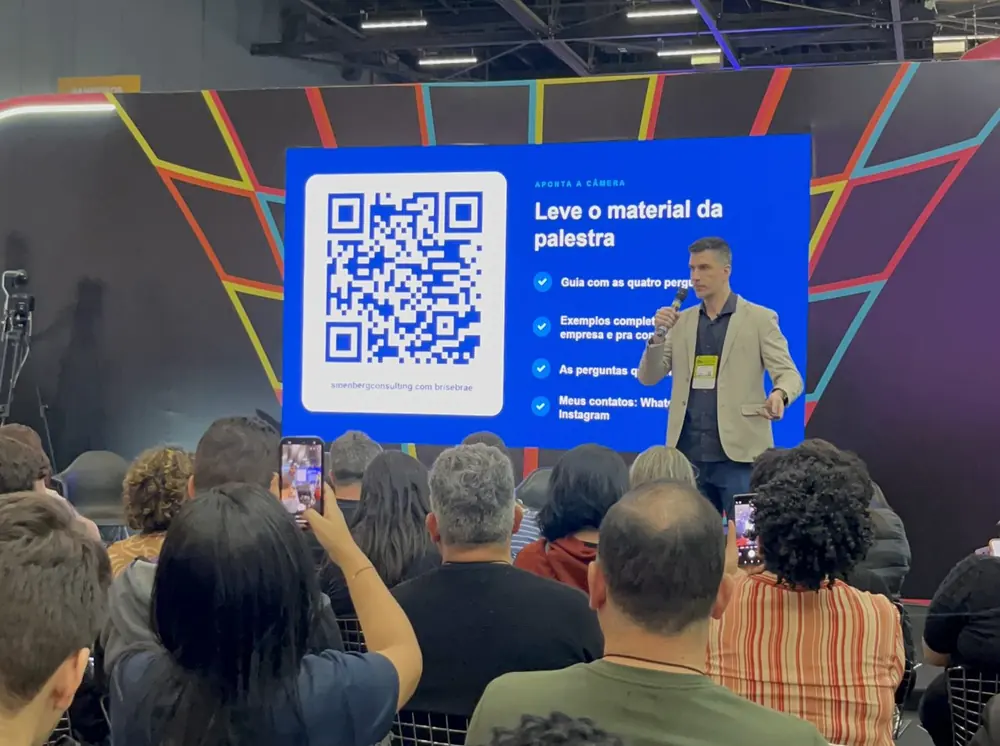
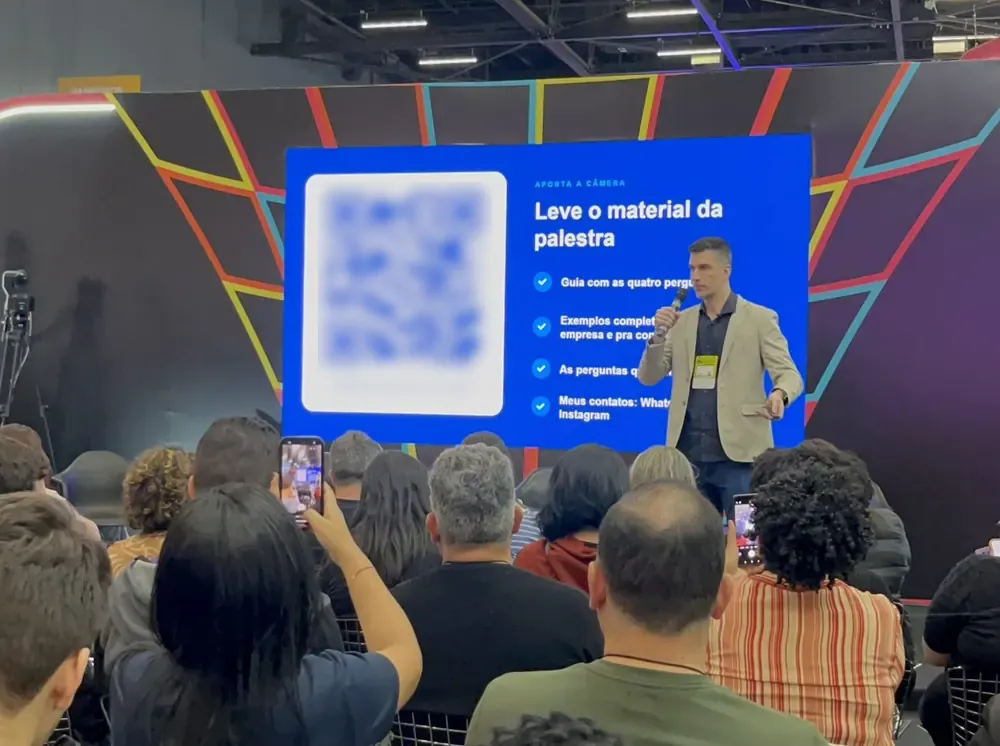
Desfoca o QR code da foto e muda o link para "Quero o material da palestra"
Claude-Session: https://claude.ai/code/session_01NSNMAWA9dfgBAzqV7Pozgm

Changed region(s): [[0.31, 0.2466, 0.496, 0.5241]]

diff --git a/src/components/v3/HomeV3.tsx b/src/components/v3/HomeV3.tsx
@@ -221,7 +221,7 @@ export function HomeV3() {
 <div style={{ maxWidth: "1240px", margin: "0 auto", display: "flex", flexDirection: "column", gap: "40px" }}>
 <div style={{ display: "flex", justifyContent: "space-between", alignItems: "flex-end", gap: "24px", flexWrap: "wrap" }}><h2 className="t" style={{ margin: "0", fontWeight: "800", fontSize: "clamp(44px, 6.2vw, 92px)", lineHeight: "0.92", letterSpacing: "-0.045em", color: "#FFFFFF" }}>Em ação</h2><p style={{ margin: "0", maxWidth: "440px", color: "#C3CBE0" }}>Já levei essa conversa para o palco do Sebrae, para um podcast da Estácio e para a sala de aula.</p></div>
 <div className="g3" style={{ display: "grid", gridTemplateColumns: "repeat(auto-fit, minmax(min(340px, 100%), 1fr))", gap: "16px" }}>
-<article style={{ background: "#161C30", borderRadius: "14px", overflow: "hidden", display: "flex", flexDirection: "column" }}><img src={fotoQr} loading="lazy" decoding="async" alt="Daniel no palco da Feira do Empreendedor, com a plateia fotografando o QR code do material" style={{ width: "100%", aspectRatio: "16 / 10", objectFit: "cover", display: "block" }} /><div style={{ padding: "24px", display: "flex", flexDirection: "column", gap: "8px", flex: "1" }}><span style={{ fontSize: "14px", color: "#FFE27A" }}>Palestra · Sebrae-SP 2026</span><h3 className="t" style={{ margin: "0", fontSize: "24px", fontWeight: "800", color: "#FFFFFF" }}>Evidência vence carisma</h3><p style={{ margin: "0", fontSize: "16px", color: "#C3CBE0", flex: "1" }}>Feira do Empreendedor. Sala cheia, gente de pé do lado de fora e um pitch de 40 segundos montado ao vivo.</p><a href="https://wa.me/5511984083610?text=Oi%2C%20Daniel.%20Vim%20pelo%20site%20e%20quero%20receber%20o%20material%20da%20palestra%20%22Evid%C3%AAncia%20vence%20carisma%22." target="_blank" rel="noopener" style={{ fontWeight: "600", fontSize: "16px" }}>Pedir o material da palestra</a></div></article>
+<article style={{ background: "#161C30", borderRadius: "14px", overflow: "hidden", display: "flex", flexDirection: "column" }}><img src={fotoQr} loading="lazy" decoding="async" alt="Daniel no palco da Feira do Empreendedor, com a plateia fotografando o QR code do material" style={{ width: "100%", aspectRatio: "16 / 10", objectFit: "cover", display: "block" }} /><div style={{ padding: "24px", display: "flex", flexDirection: "column", gap: "8px", flex: "1" }}><span style={{ fontSize: "14px", color: "#FFE27A" }}>Palestra · Sebrae-SP 2026</span><h3 className="t" style={{ margin: "0", fontSize: "24px", fontWeight: "800", color: "#FFFFFF" }}>Evidência vence carisma</h3><p style={{ margin: "0", fontSize: "16px", color: "#C3CBE0", flex: "1" }}>Feira do Empreendedor. Sala cheia, gente de pé do lado de fora e um pitch de 40 segundos montado ao vivo.</p><a href="https://wa.me/5511984083610?text=Oi%2C%20Daniel.%20Vim%20pelo%20site%20e%20quero%20receber%20o%20material%20da%20palestra%20%22Evid%C3%AAncia%20vence%20carisma%22." target="_blank" rel="noopener" style={{ fontWeight: "600", fontSize: "16px" }}>Quero o material da palestra</a></div></article>
 <article style={{ background: "#161C30", borderRadius: "14px", overflow: "hidden", display: "flex", flexDirection: "column" }}><img src={fotoPodcast} loading="lazy" decoding="async" alt="Daniel gravando o podcast Você é Seu Negócio, da Estácio" style={{ width: "100%", aspectRatio: "16 / 10", objectFit: "cover", display: "block" }} /><div style={{ padding: "24px", display: "flex", flexDirection: "column", gap: "8px", flex: "1" }}><span style={{ fontSize: "14px", color: "#FFE27A" }}>Podcast · Estácio</span><h3 className="t" style={{ margin: "0", fontSize: "24px", fontWeight: "800", color: "#FFFFFF" }}>Você é Seu Negócio</h3><p style={{ margin: "0", fontSize: "16px", color: "#C3CBE0", flex: "1" }}>Posicionamento, nicho e vendas em empresas de tecnologia.</p><a href="https://www.youtube.com/watch?v=ReIgJhQc6ew&amp;t=1591s" style={{ fontWeight: "600", fontSize: "16px" }}>Assistir no YouTube</a></div></article>
 <article style={{ background: "#2450FF", borderRadius: "14px", padding: "28px", display: "flex", flexDirection: "column", justifyContent: "space-between", gap: "24px", color: "#FFFFFF" }}><div><span className="t" style={{ display: "block", fontSize: "clamp(96px, 9vw, 132px)", fontWeight: "800", lineHeight: "0.88", letterSpacing: "-0.06em" }}>50+</span><span className="m" style={{ display: "block", fontSize: "26px", fontWeight: "600", color: "#FFE27A" }}>startups mentoradas</span></div><div style={{ display: "flex", flexDirection: "column", gap: "8px" }}><span style={{ fontSize: "14px", color: "#DCE4FF" }}>Mentoria · Estácio e Wyden</span><h3 className="t" style={{ margin: "0", fontSize: "24px", fontWeight: "800" }}>Startup Experience</h3><p style={{ margin: "0", fontSize: "16px", color: "#E4E9FF" }}>Análise de mercado, posicionamento e pitch, em programas de empreendedorismo do grupo Yduqs.</p></div></article>
 </div>
